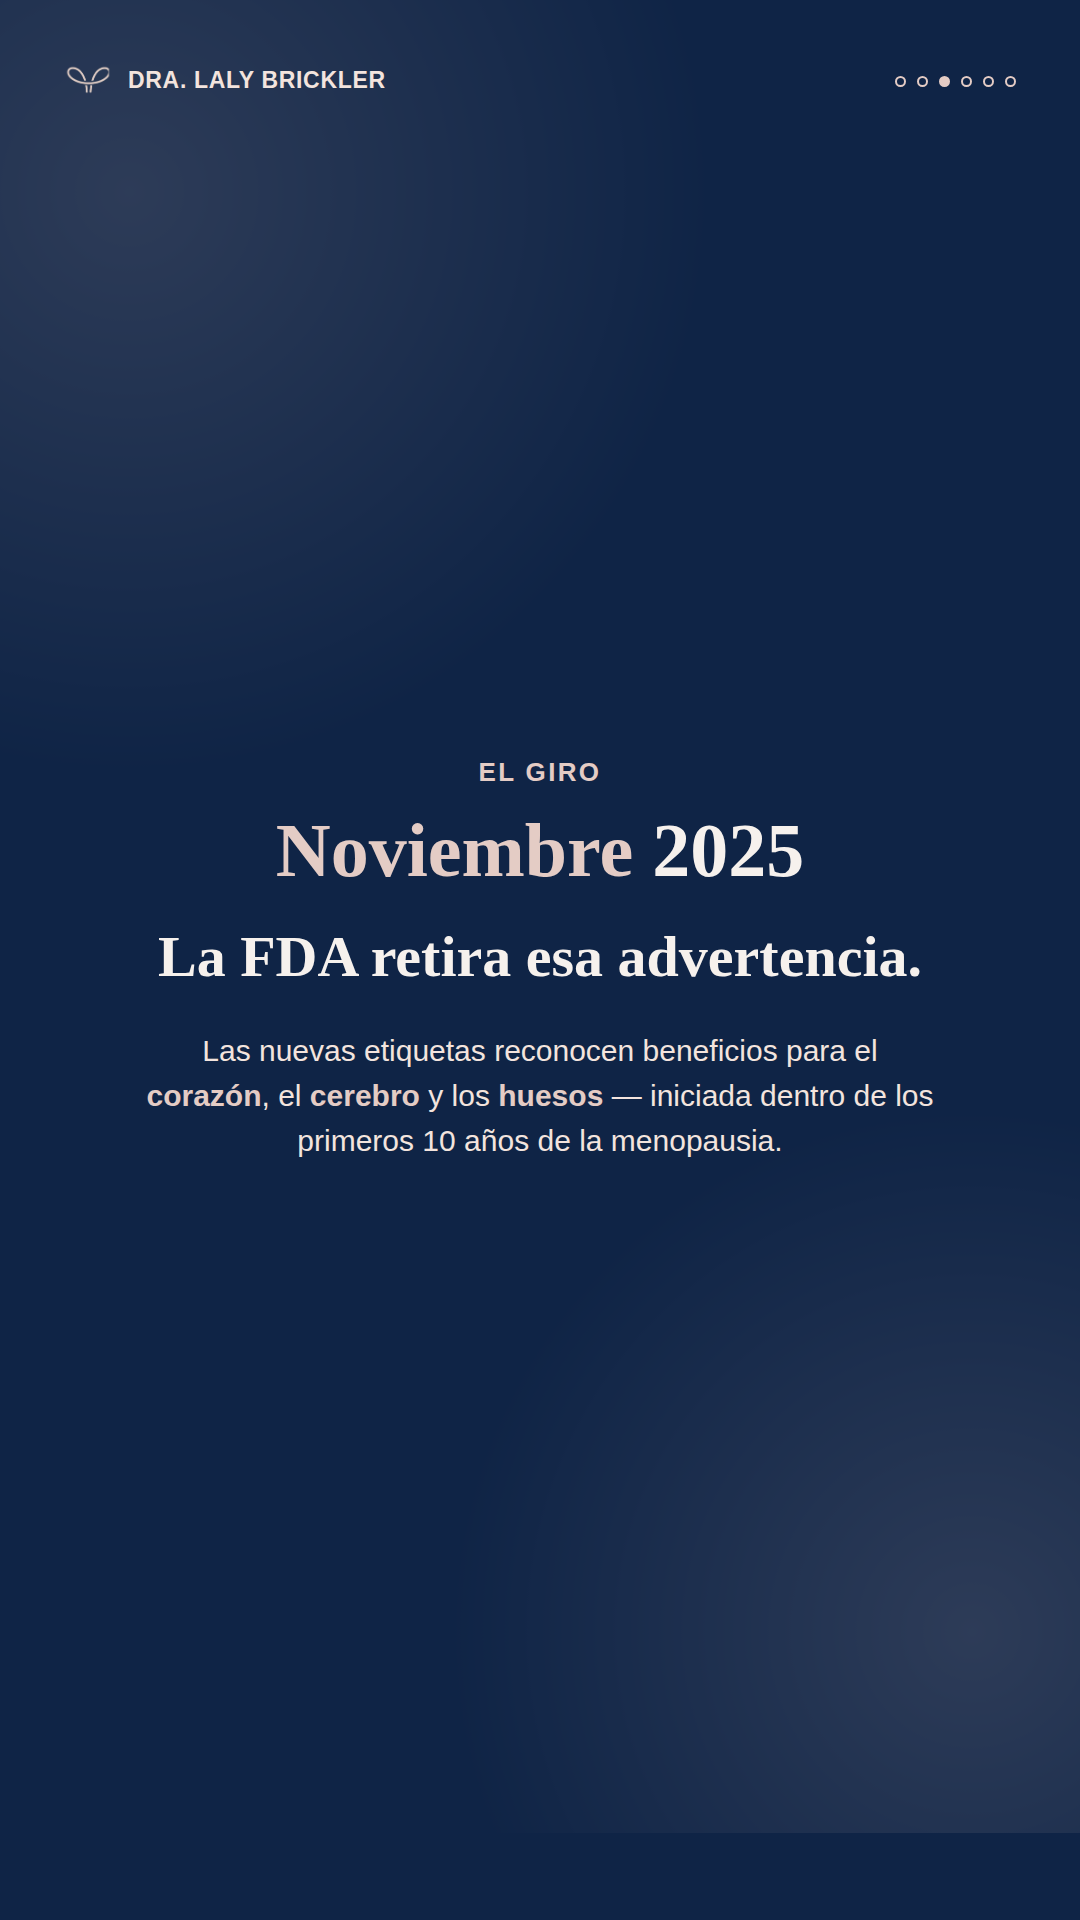
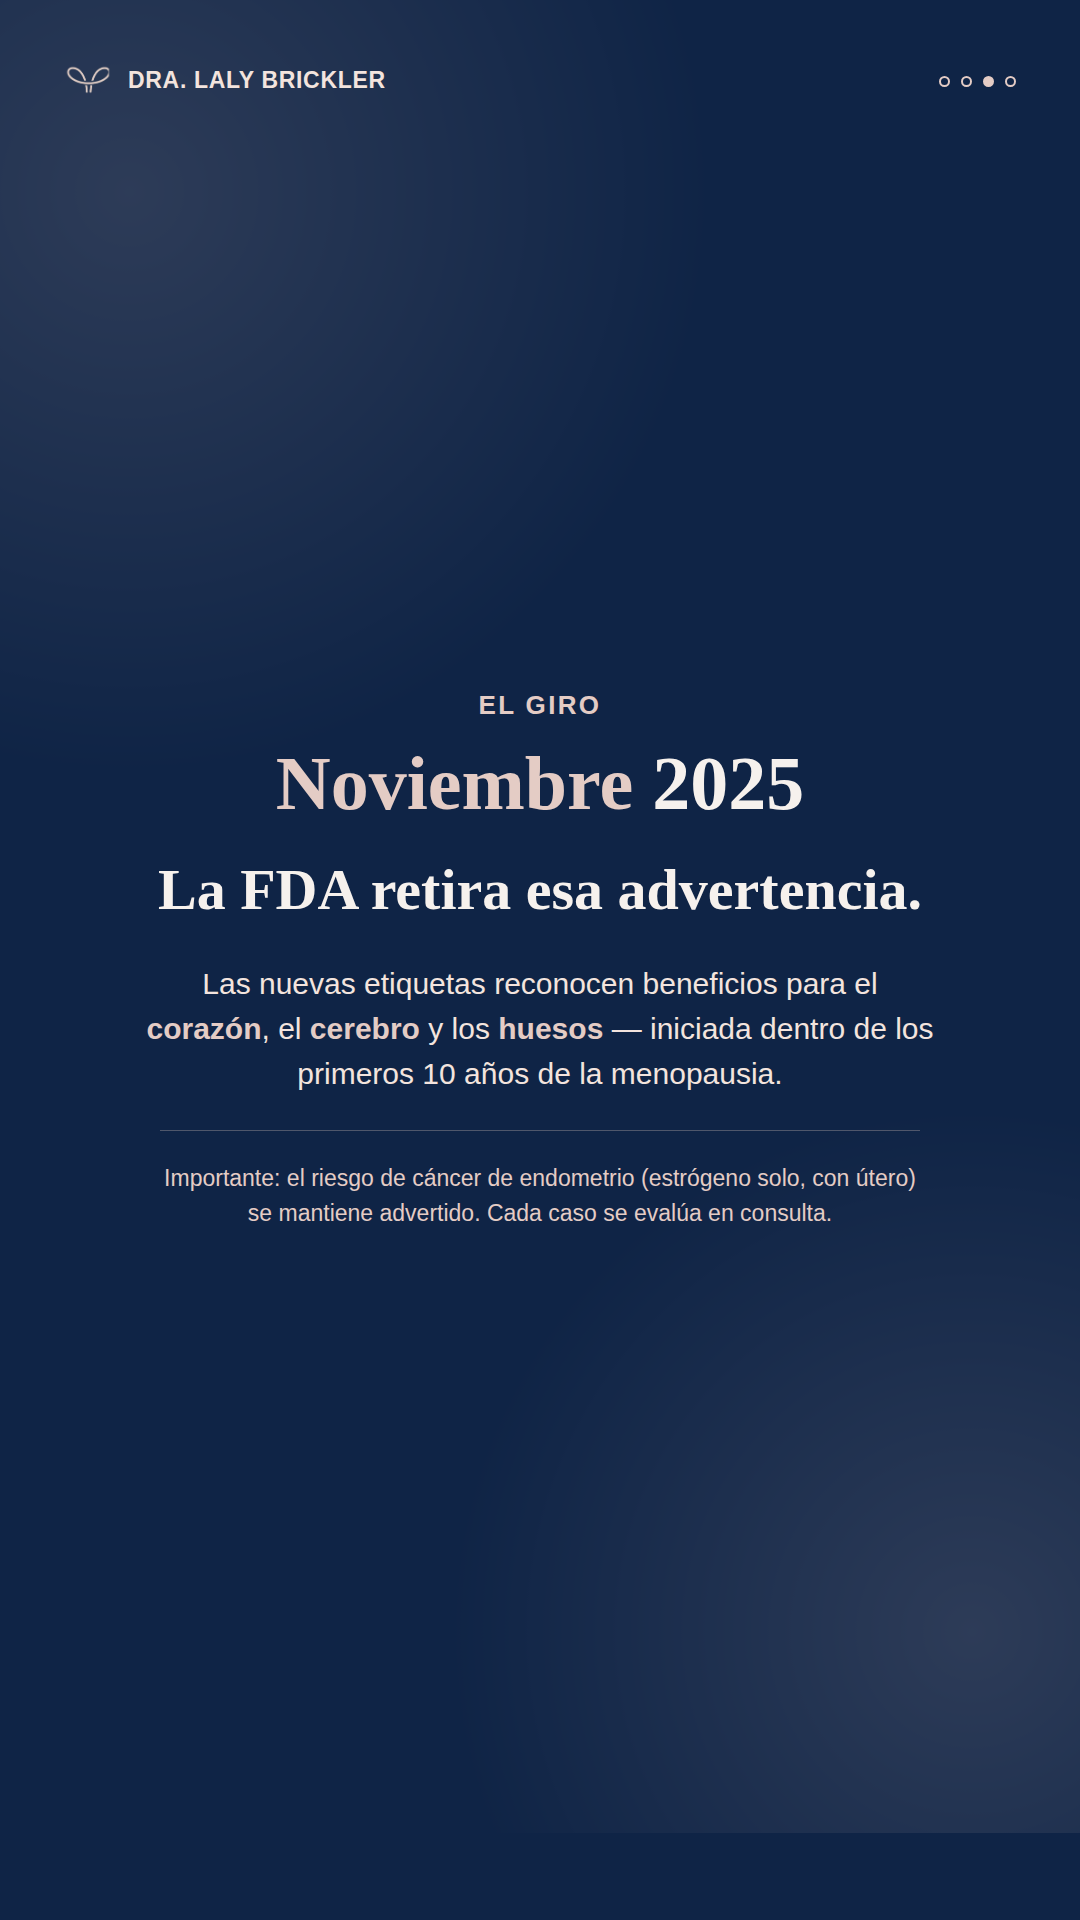
Trim menopause carousel to 4 slides, fold endometrial caveat into slide 3
Drop the standalone "matiz" and "tema 2026" slides. The endometrial
cancer caveat (estrogen-only, with uterus) stays on slide 3 as a
smaller note, since the script explicitly flags it as required
disclosure, not optional.

Claude-Session: https://claude.ai/code/session_01LtTLwZrPZbyahK5aD18j7d

Changed region(s): [[0.1528, 0.3438, 0.8556, 0.6562]]

diff --git a/assets/export-menopausia/slide-3-noticia.html b/assets/export-menopausia/slide-3-noticia.html
@@ -25,17 +25,19 @@ html,body{width:1080px;height:1920px;overflow:hidden;background:#0F2446;font-fam
 .headline{font-family:'Fraunces',Georgia,serif;font-weight:600;color:#F6F1ED;font-size:58px;line-height:1.22;max-width:820px;text-wrap:balance;margin-bottom:36px}
 .sub{font-size:30px;color:#F3E4DE;line-height:1.5;max-width:800px}
 .sub b{color:#E4CCC5;font-weight:600}
+.caveat{margin-top:34px;padding-top:30px;border-top:1px solid rgba(228,204,197,.3);font-size:23px;color:#E4CCC5;line-height:1.5;max-width:760px}
 </style></head>
 <body>
 <div class="frame">
   <div class="loop-field"></div>
   <div class="brand"><img src="icon.png" alt=""><span>DRA. LALY BRICKLER</span></div>
-  <div class="dots"><span class="dot"></span><span class="dot"></span><span class="dot on"></span><span class="dot"></span><span class="dot"></span><span class="dot"></span></div>
+  <div class="dots"><span class="dot"></span><span class="dot"></span><span class="dot on"></span><span class="dot"></span></div>
   <div class="body">
     <span class="eyebrow">El giro</span>
     <p class="year"><em>Noviembre</em> 2025</p>
     <p class="headline">La FDA retira esa advertencia.</p>
     <p class="sub">Las nuevas etiquetas reconocen beneficios para el <b>corazón</b>, el <b>cerebro</b> y los <b>huesos</b> — iniciada dentro de los primeros 10 años de la menopausia.</p>
+    <p class="caveat">Importante: el riesgo de cáncer de endometrio (estrógeno solo, con útero) se mantiene advertido. Cada caso se evalúa en consulta.</p>
   </div>
 </div>
 </body></html>

diff --git a/assets/export-menopausia/slide-1-hook.html b/assets/export-menopausia/slide-1-hook.html
@@ -29,7 +29,7 @@ html,body{width:1080px;height:1920px;overflow:hidden;background:#0F2446;font-fam
 <div class="frame">
   <div class="loop-field"></div>
   <div class="brand"><img src="icon.png" alt=""><span>DRA. LALY BRICKLER</span></div>
-  <div class="dots"><span class="dot on"></span><span class="dot"></span><span class="dot"></span><span class="dot"></span><span class="dot"></span><span class="dot"></span></div>
+  <div class="dots"><span class="dot on"></span><span class="dot"></span><span class="dot"></span><span class="dot"></span></div>
   <div class="body">
     <span class="eyebrow">Día Mundial de la Menopausia · 18 oct</span>
     <p class="headline">La FDA acaba de <em>revertir</em> una advertencia de hace 22 años.</p>

diff --git a/assets/export-menopausia/slide-4-cta.html b/assets/export-menopausia/slide-4-cta.html
@@ -34,7 +34,7 @@ html,body{width:1080px;height:1920px;overflow:hidden;background:#0F2446;font-fam
 <div class="frame">
   <div class="loop-field"></div>
   <div class="brand"><img src="icon.png" alt=""><span>DRA. LALY BRICKLER</span></div>
-  <div class="dots"><span class="dot"></span><span class="dot"></span><span class="dot"></span><span class="dot"></span><span class="dot"></span><span class="dot on"></span></div>
+  <div class="dots"><span class="dot"></span><span class="dot"></span><span class="dot"></span><span class="dot on"></span></div>
   <div class="body">
     <span class="eyebrow">Terapia hormonal · menopausia</span>
     <p class="cta-head">La ciencia <em>avanzó</em>. Tu información también debería.</p>

diff --git a/assets/export-menopausia/slide-2-contexto.html b/assets/export-menopausia/slide-2-contexto.html
@@ -28,7 +28,7 @@ html,body{width:1080px;height:1920px;overflow:hidden;background:#0F2446;font-fam
 <div class="frame">
   <div class="loop-field"></div>
   <div class="brand"><img src="icon.png" alt=""><span>DRA. LALY BRICKLER</span></div>
-  <div class="dots"><span class="dot"></span><span class="dot on"></span><span class="dot"></span><span class="dot"></span><span class="dot"></span><span class="dot"></span></div>
+  <div class="dots"><span class="dot"></span><span class="dot on"></span><span class="dot"></span><span class="dot"></span></div>
   <div class="body">
     <span class="eyebrow">El contexto</span>
     <p class="year">2003</p>
